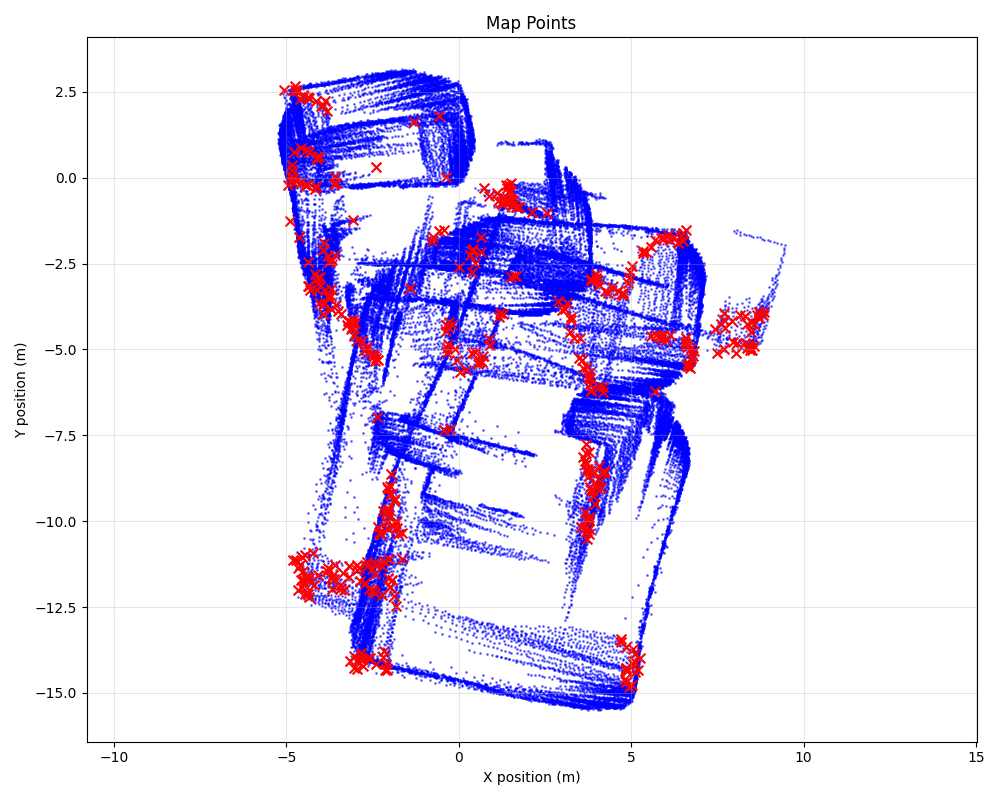
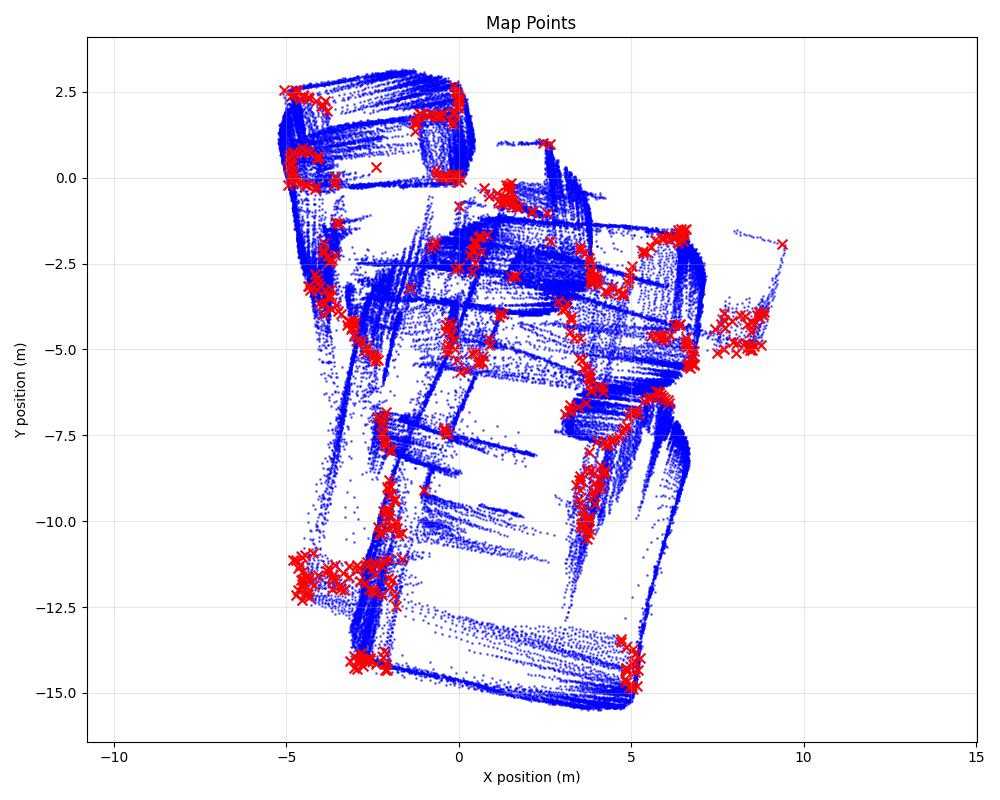
Before adding a point to a cluster, verify if that point decreases or increases the mse value of the fitted line

diff --git a/src/map.py b/src/map.py
@@ -77,6 +77,7 @@ class Map:
 
         self.use_clustering: bool      = GLOBALS.CORNER_DETECT_USE_CLUSTERING         # Enable clustering
         self.cluster_jump_dist: float  = GLOBALS.CORNER_DETECT_CLUSTER_JUMP_DISTANCE  # [m]
+        self.cluster_line_error: float = GLOBALS.CORNER_DETECT_CLUSTER_LINE_ERROR     # [m^2]
 
     def compute_points_position(self, robot_homo_matrix: np.ndarray, lidar_ranges: np.ndarray, lidar_angles: np.ndarray, scan_idx: int) -> None:
         scan_points_world_frame: list[Point] = []
@@ -116,24 +117,44 @@ class Map:
         cluster_min_size: int = 5
 
         if use_clustering:
-            # Clustering (Split by distance jumps)
+            # Clustering by line fitting error
             current_cluster = [scan_points[0]]
 
             for i in range(1, len(scan_points)):
                 p_prev = scan_points[i-1]
                 p_curr = scan_points[i]
 
-                # Calculate distance between consecutive points
-                dist = math.sqrt((p_curr.x - p_prev.x)**2 + (p_curr.y - p_prev.y)**2)
+                # Check for obvious distance jumps first
+                jump_dist = math.sqrt((p_curr.x - p_prev.x)**2 + (p_curr.y - p_prev.y)**2)
 
-                if dist > self.cluster_jump_dist:
-                    # Start new cluster
+                if jump_dist > self.cluster_jump_dist:
+                    # Obvious gap - start new cluster
                     if len(current_cluster) >= cluster_min_size:
                         clusters.append(current_cluster)
                     current_cluster = [p_curr]
+                    continue
+
+                # Try adding the new point and check line fit error
+                test_cluster = current_cluster + [p_curr]
+
+                if len(test_cluster) >= 3:
+                    line_params = self._fit_line_to_cluster(test_cluster)
+
+                    if line_params is not None:
+                        error = self._compute_line_mse(test_cluster, line_params)
+
+                        if error > self.cluster_line_error:
+                            # Error too high - this point belongs to a different wall
+                            if len(current_cluster) >= cluster_min_size:
+                                clusters.append(current_cluster)
+                            current_cluster = [p_curr]
+                        else:
+                            current_cluster.append(p_curr)
+                    else:
+                        current_cluster.append(p_curr)
                 else:
                     current_cluster.append(p_curr)
-            
+
             # Append the last cluster
             if len(current_cluster) >= cluster_min_size:
                 clusters.append(current_cluster)
@@ -250,6 +271,19 @@ class Map:
         c = -(a * x_mean + b * y_mean)
         
         return {'a': a, 'b': b, 'c': c}
+
+    def _compute_line_mse(self, cluster: list[Point], line_params: dict) -> float:
+        """Compute mean squared distance of points to the fitted line"""
+
+        a, b, c = line_params['a'], line_params['b'], line_params['c']
+        total_error = 0.0
+
+        for p in cluster:
+            # Distance from point to line (a,b already normalized so a²+b²=1)
+            dist = abs(a * p.x + b * p.y + c)
+            total_error += dist ** 2
+
+        return total_error / len(cluster)
 
     def _compute_line_intersection(self, line1: dict, line2: dict) -> tuple[float, float] | None:
         """Compute intersection point of two lines"""

diff --git a/src/__config.py b/src/__config.py
@@ -25,5 +25,6 @@ CORNER_DETECT_DISTANCE_THRESHOLD: float     = 0.001   # [m]
 
 CORNER_DETECT_USE_CLUSTERING: bool          = True
 CORNER_DETECT_CLUSTER_JUMP_DISTANCE: float  = 0.2   # [m]
+CORNER_DETECT_CLUSTER_LINE_ERROR: float     = 0.01  # [m^2] Max MSE for line fit
 
 CORNER_DETECT_CONFIDENCE_THRESHOLD: float   = 0.5
